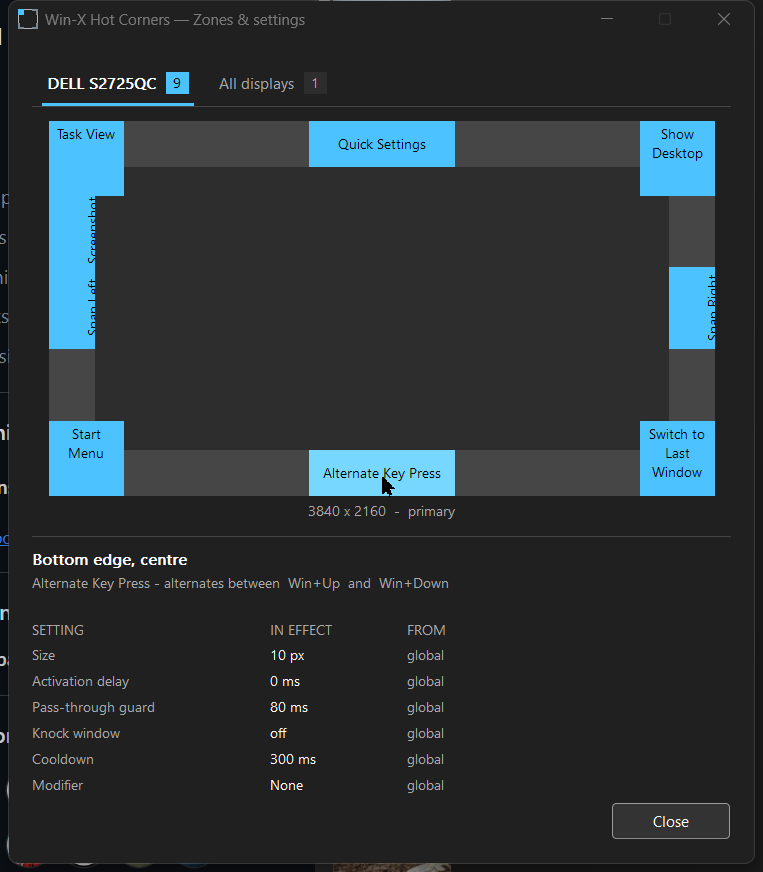
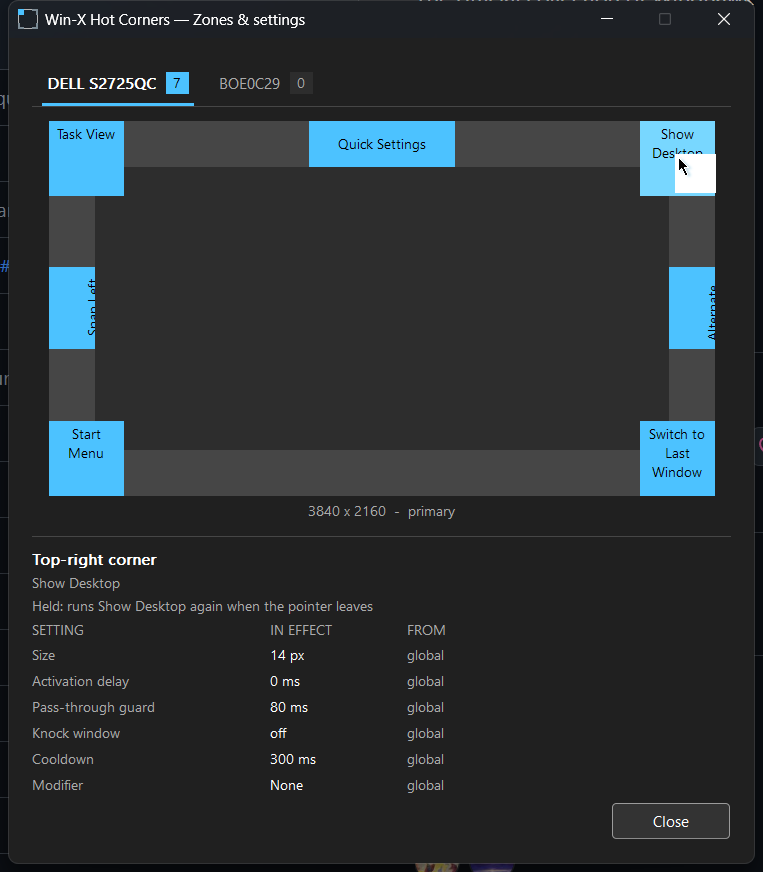
win-x-hotcorners 1.1.2: demo media for every trigger style
The Ways to trigger a zone section linked six images that did not exist
yet. Records them against a live seven-zone configuration, one per
style, and each gated trigger shows the attempt that does not fire
before the one that does - a clip of a corner simply working teaches
nothing about the gate.

Dashboard shot retaken with all seven zones and the pointer resting on
the hold corner, so the detail panel is populated rather than showing
its empty prompt. It also confirms the vertical edge labels no longer
collide.

Captured on one display only, at 4K, via Desktop Duplication rather
than GDI - gdigrab managed about 17fps at this size, which reads as
stepped pointer motion once it becomes a GIF.

diff --git a/scripts/probe-vtext.cpp b/scripts/probe-vtext.cpp
@@ -1,0 +1,88 @@
+// Where does a 900-escapement TextOutW actually put its glyphs relative to the
+// baseline point? Renders the mod's exact call plus candidates into a BMP so
+// the answer is looked at rather than deduced.
+
+#include <windows.h>
+#include <cstdio>
+
+static void Save(HBITMAP bmp, int w, int h, const char *path)
+{
+    BITMAPFILEHEADER fh = {};
+    BITMAPINFOHEADER ih = {};
+    ih.biSize = sizeof(ih);
+    ih.biWidth = w;
+    ih.biHeight = -h;
+    ih.biPlanes = 1;
+    ih.biBitCount = 24;
+    ih.biCompression = BI_RGB;
+    int stride = ((w * 3 + 3) / 4) * 4;
+    int sz = stride * h;
+    BYTE *bits = new BYTE[sz];
+    HDC dc = GetDC(nullptr);
+    GetDIBits(dc, bmp, 0, h, bits, (BITMAPINFO *)&ih, DIB_RGB_COLORS);
+    ReleaseDC(nullptr, dc);
+    fh.bfType = 0x4D42;
+    fh.bfOffBits = sizeof(fh) + sizeof(ih);
+    fh.bfSize = fh.bfOffBits + sz;
+    FILE *f = fopen(path, "wb");
+    fwrite(&fh, sizeof(fh), 1, f);
+    fwrite(&ih, sizeof(ih), 1, f);
+    fwrite(bits, sz, 1, f);
+    fclose(f);
+    delete[] bits;
+}
+
+int main()
+{
+    const int W = 560, H = 340;
+    HDC screen = GetDC(nullptr);
+    HDC dc = CreateCompatibleDC(screen);
+    HBITMAP bmp = CreateCompatibleBitmap(screen, W, H);
+    SelectObject(dc, bmp);
+    ReleaseDC(nullptr, screen);
+
+    HBRUSH bg = CreateSolidBrush(RGB(40, 40, 40));
+    RECT all = {0, 0, W, H};
+    FillRect(dc, &all, bg);
+
+    LOGFONTW lf = {};
+    lf.lfHeight = -18;
+    lf.lfCharSet = DEFAULT_CHARSET;
+    lf.lfQuality = CLEARTYPE_QUALITY;
+    lf.lfEscapement = 900;
+    lf.lfOrientation = 900;
+    wcscpy_s(lf.lfFaceName, LF_FACESIZE, L"Segoe UI");
+    HFONT f = CreateFontIndirectW(&lf);
+    SelectObject(dc, f);
+    SetBkMode(dc, TRANSPARENT);
+
+    const wchar_t *txt = L"Snap Left";
+    SIZE ts = {};
+    GetTextExtentPoint32W(dc, txt, 9, &ts);
+    printf("extent: cx=%ld cy=%ld   (cx = along baseline, cy = line height)\n",
+           ts.cx, ts.cy);
+
+    HBRUSH zone = CreateSolidBrush(RGB(80, 190, 250));
+
+    struct { int ox; const char *tag; int dx, dy; } cases[] = {
+        {40,  "current: cx+cy/2, cy+cx/2",  +ts.cy / 2, +ts.cx / 2},
+        {220, "cx-cy/2, cy+cx/2",           -ts.cy / 2, +ts.cx / 2},
+        {400, "cx-cy/2, cy-cx/2",           -ts.cy / 2, -ts.cx / 2},
+    };
+
+    for (auto &c : cases) {
+        // A band the shape of the left-edge strip: narrow and tall.
+        RECT z = {c.ox, 60, c.ox + 46, 280};
+        FillRect(dc, &z, zone);
+        int cx = (z.left + z.right) / 2;
+        int cy = (z.top + z.bottom) / 2;
+        SetTextColor(dc, RGB(0, 0, 0));
+        TextOutW(dc, cx + c.dx, cy + c.dy, txt, 9);
+        printf("  band x=%d..%d  centre cx=%d  baseline x=%d  %s\n",
+               (int)z.left, (int)z.right, cx, cx + c.dx, c.tag);
+    }
+
+    Save(bmp, W, H, "vtext.bmp");
+    printf("wrote vtext.bmp\n");
+    return 0;
+}

diff --git a/mods/win-x-hotcorners/win-x-hotcorners.wh.cpp b/mods/win-x-hotcorners/win-x-hotcorners.wh.cpp
@@ -2,7 +2,7 @@
 // @id              win-x-hotcorners
 // @name            Win-X Hot Corners
 // @description     macOS-style hot corners & edges for Windows with full multi-monitor support — trigger actions instantly when your cursor hits any screen corner or edge
-// @version         1.1.1
+// @version         1.1.2
 // @author          lost_husky
 // @github          https://github.com/DhakadG
 // @donateUrl       https://ko-fi.com/losthusky_
@@ -171,6 +171,11 @@ moment the key goes down. Either order works.
 **Alternate key press** and **Alternate command** change *what* a zone does
 rather than *when* it fires — the same corner runs the left action, then the
 right one, then the left again. Combine either with any trigger above.
+
+![One edge maximising a window, then restoring it on the next visit](https://raw.githubusercontent.com/DhakadG/my-windhawk-mods/main/docs/media/trigger-alternate.gif)
+
+Above, the right edge is set to `Win+Up | Win+Down`: the first visit maximises
+the window and the next one puts it back.
 
 ## Available Actions
 
@@ -4646,9 +4651,13 @@ static void DashPaintDiagram(DashState *s, HDC hdc)
                 IntersectClipRect(hdc, widest.left, widest.top, widest.right,
                                   widest.bottom);
                 // At 90 degrees the advance runs up the screen and the glyphs
-                // hang left of the baseline, so the baseline sits at the right
-                // of the band and the run starts at its bottom.
-                TextOutW(hdc, cx + ts.cy / 2, cy + ts.cx / 2, lab.c_str(),
+                // hang to the *right* of the baseline, so the baseline sits at
+                // the left of the band and the run starts at its bottom.
+                // Getting this backwards puts the whole label outside its own
+                // strip, where the clip rect shears it in half and it reads as
+                // two labels colliding. Rendered rather than reasoned about:
+                // scripts/probe-vtext.cpp draws all three candidates.
+                TextOutW(hdc, cx - ts.cy / 2, cy + ts.cx / 2, lab.c_str(),
                          (int)lab.size());
                 SelectClipRgn(hdc, nullptr);
             }
@@ -5742,3 +5751,4 @@ void Wh_ModUninit() {
     WhTool_ModUninit();
     ExitProcess(0);
 }
+
